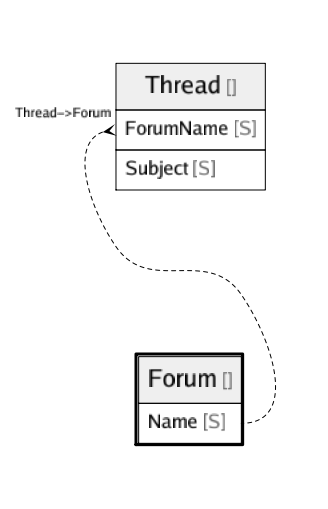
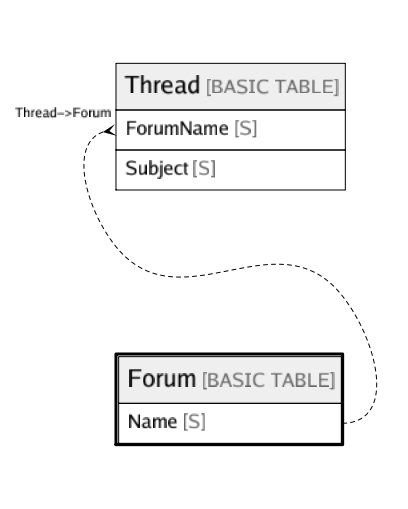
[DynamoDB] Fix table type

diff --git a/drivers/dynamo/dynamo.go b/drivers/dynamo/dynamo.go
@@ -28,6 +28,7 @@ func (d *Dynamodb) Analyze(s *schema.Schema) error {
 
 	// tables
 	tables := []*schema.Table{}
+	tableType := "BASIC TABLE"
 	for {
 		list, err := d.client.ListTablesWithContext(d.ctx, input)
 		if err != nil {
@@ -44,6 +45,7 @@ func (d *Dynamodb) Analyze(s *schema.Schema) error {
 			}
 			table := &schema.Table{
 				Name:        *desc.Table.TableName,
+				Type:        tableType,
 				Columns:     listColumns(desc.Table),
 				Constraints: listConstraints(desc.Table),
 				Indexes:     listIndexes(desc.Table),

diff --git a/sample/dynamodb/README.md b/sample/dynamodb/README.md
@@ -4,10 +4,10 @@
 
 | Name | Columns | Comment | Type |
 | ---- | ------- | ------- | ---- |
-| [Forum](Forum.md) | 1 |  |  |
-| [ProductCatalog](ProductCatalog.md) | 1 |  |  |
-| [Reply](Reply.md) | 3 |  |  |
-| [Thread](Thread.md) | 2 |  |  |
+| [Forum](Forum.md) | 1 |  | BASIC TABLE |
+| [ProductCatalog](ProductCatalog.md) | 1 |  | BASIC TABLE |
+| [Reply](Reply.md) | 3 |  | BASIC TABLE |
+| [Thread](Thread.md) | 2 |  | BASIC TABLE |
 
 ## Relations
 
